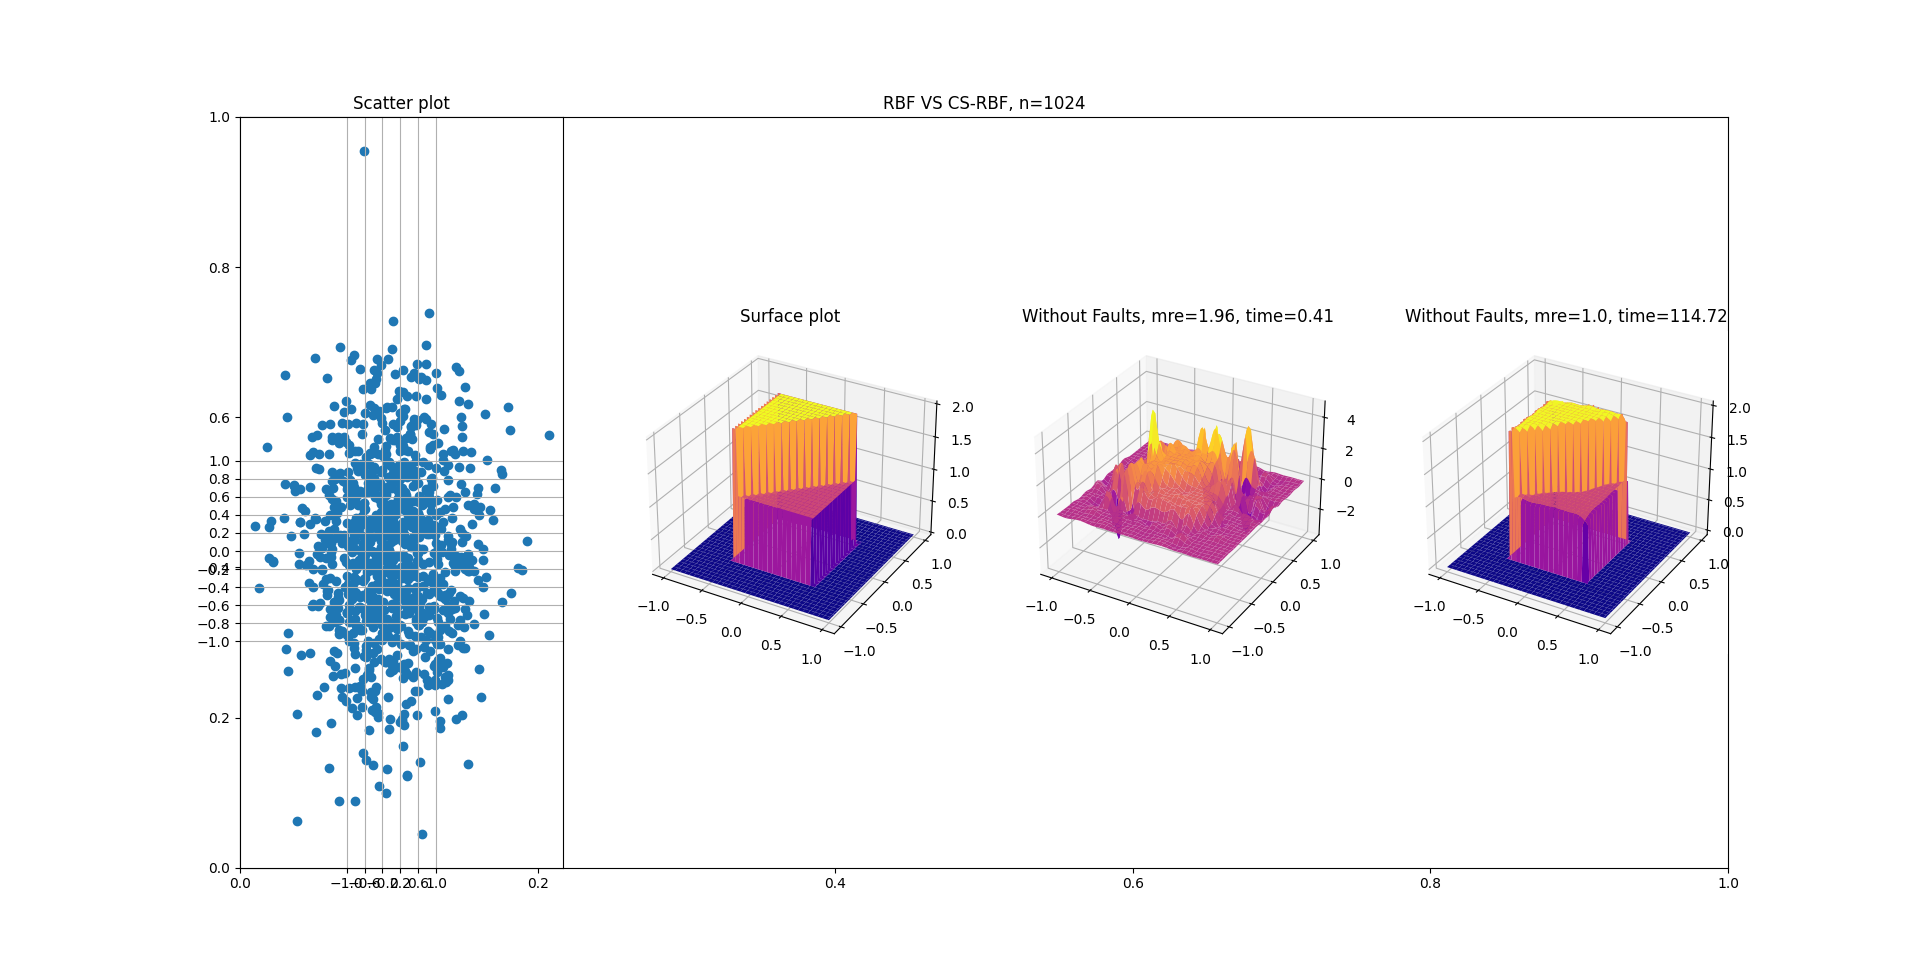
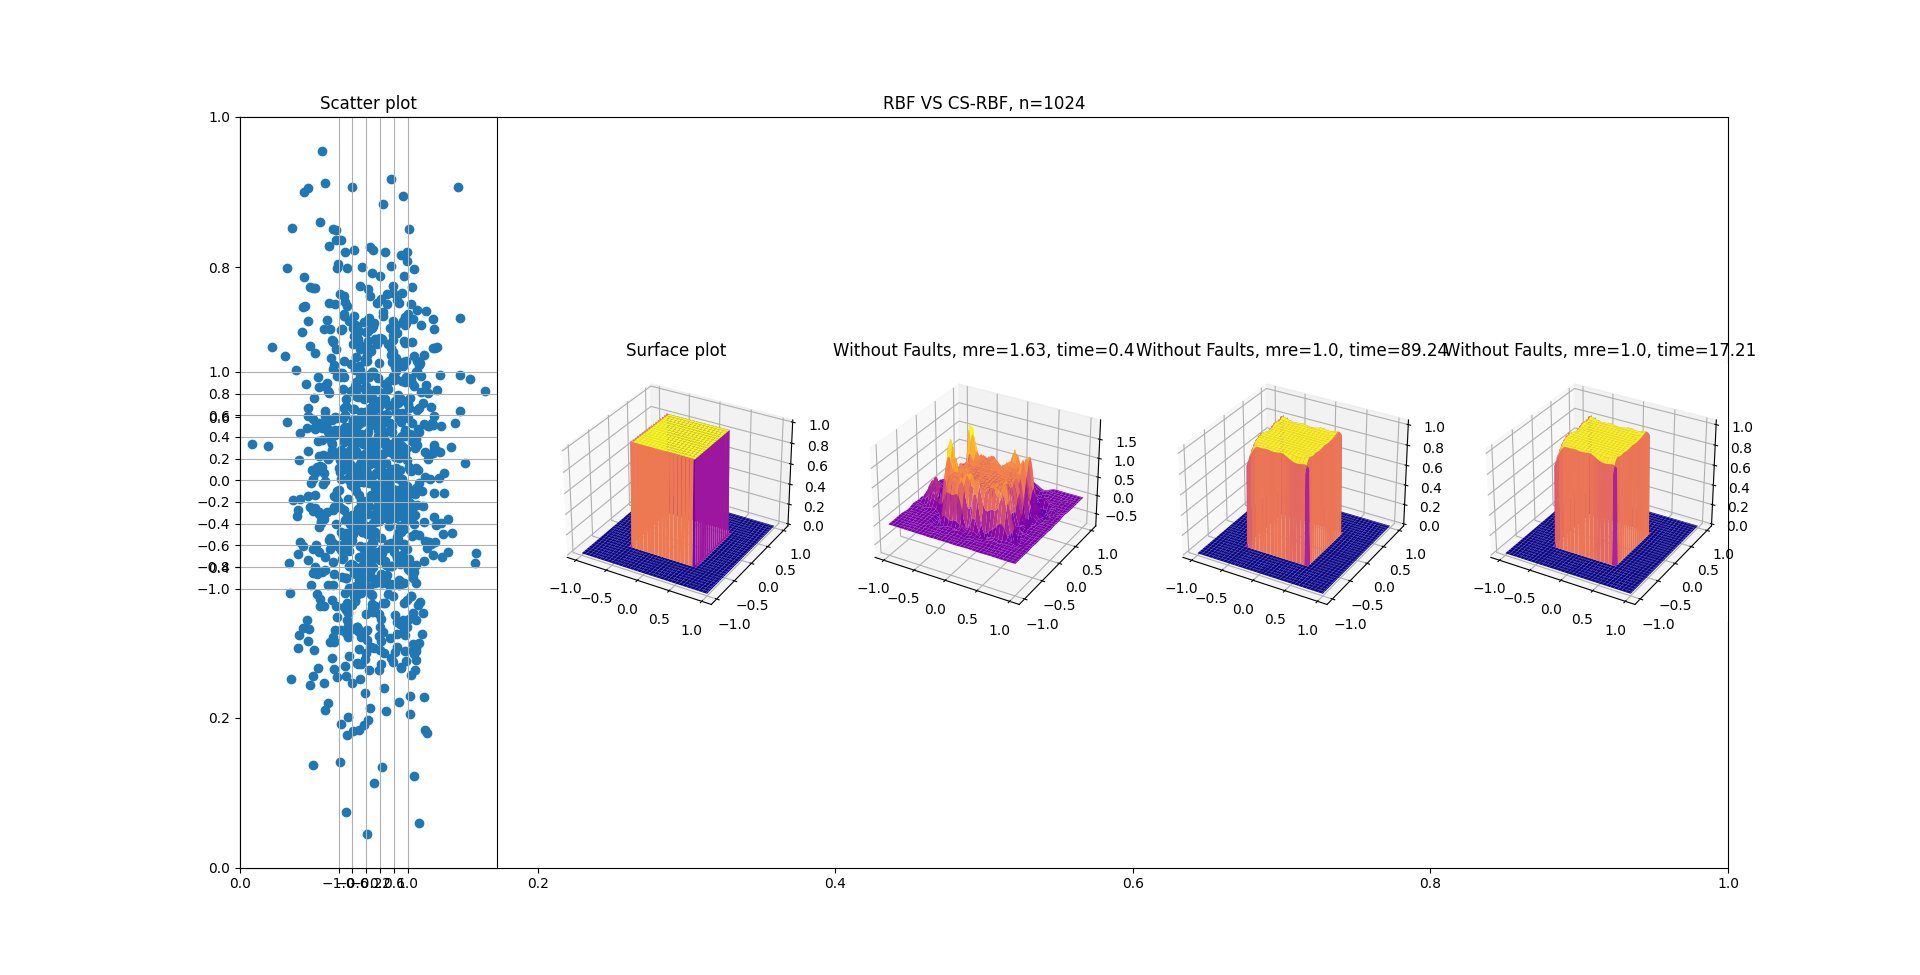
fix

diff --git a/cs_rbf_with_faults.py b/cs_rbf_with_faults.py
@@ -233,6 +233,39 @@ def faults_exclude_point_from_found(
   return res
 
 class CsRbfWithFaults:
+  def check_faults(
+    points: np.ndarray[Any, np.dtype[np.float64]],
+    faults: list[tuple[tuple[float, float], tuple[float, float]]],
+    epsilon: float = 1e-4,
+    rs: float = 0.8
+  ):
+    n = len(points)
+
+    rf = 2 * rs / math.sqrt(3)
+
+    tree = KDTree(points[:, :2], copy_data=True)
+    
+    res = []
+
+    for p in points:
+      found = tree.query_ball_point(p[:2], rs)
+
+      res.append(set(found))
+
+    faults_exclude_points(faults, tree, rf, points, res, rs, rs * epsilon)
+
+    fb = []
+    db = {}
+
+    for i in range(0, n):
+      p = points[i]
+
+      if len(res[i]) > 1:
+        db[i] = len(fb)
+        fb.append(p[2])
+
+    return tree, res, db, fb    
+
   def interpolator(
     points: np.ndarray[Any, np.dtype[np.float64]],
     faults: list[tuple[tuple[float, float], tuple[float, float]]],
@@ -242,75 +275,45 @@ class CsRbfWithFaults:
   ):
     n = len(points)
 
-    rf = 2 * rs / math.sqrt(3)
+    tree, res, db, fb = CsRbfWithFaults.check_faults(points, faults, epsilon, rs)
 
-    tree = KDTree(points[:, :2], copy_data=True)
+    m = len(fb)
 
-    res = []
+    f = np.zeros(m)
 
-    for p in points:
-      found = tree.query_ball_point(p[:2], rs)
-
-      res.append(set(found))
-
-    faults_exclude_points(faults, tree, rf, points, res, rs, rs * epsilon)
-
-    max_count = 0
-    min_count = n
-    new_points = []
-
-    n = len(points)
-
-    for i in range(0, n):
-      s = res[i]
-
-      if len(s) > 1:
-        min_count = min(min_count, len(s))
-        max_count = max(max_count, len(s))
-        new_points.append(points[i])
-
-    points = np.array(new_points)
-
-    tree = KDTree(points[:, :2], copy_data=True)
-
-    res = []
-    fb = []
-
-    n = len(points)
-
-    for p in points:
-      fb.append(p[2])
-
-      found = tree.query_ball_point(p[:2], rs)
-
-      res.append(set(found))
-
-    faults_exclude_points(faults, tree, rf, points, res, rs, rs * epsilon)
-    
-    def mv(v):
-      f = np.zeros(n)
+    def mv(v):      
+      for k in range(m):
+        f[k] = 0
+      
+      k = 0
 
       for i in range(n):
-        for j in res[i]:
-          a = rbf(
-            distance(points[i], points[j]),
-            rs
-          )
+        if len(res[i]) > 1:
+          for j in res[i]:
+            a = rbf(
+              distance(points[i], points[j]),
+              rs
+            )
 
-          f[i] += a * v[j]
+            f[k] += a * v[db[j]]
+
+          k += 1
 
       return f
 
-    A = LinearOperator((n, n), matvec=mv)    
+    A = LinearOperator((m, m), matvec=mv)    
 
     b = cg(A, fb)
 
     return CsRbfWithFaults(
       rs, 
       epsilon,
-      b[0],
       points,
       faults,
+      b[0],
+      db,
+      res,
+      tree,
       rbf
     )
 
@@ -329,18 +332,22 @@ class CsRbfWithFaults:
         found = faults_exclude_point_from_found((x[i, j], y[i, j]), found, self.points, self.faults, self.rs * self.epsilon)  
 
         for k in found:
+          l = self.db[k]
           p = self.points[k]
-          z[i, j] += self.b[k] * self.rbf(distance((x[i, j], y[i, j]), p), self.rs)
+          z[i, j] += self.b[l] * self.rbf(distance((x[i, j], y[i, j]), p), self.rs)
 
     return z
 
   def __init__(
     self,
     rs: float,
-    epsilon: float,
-    b: np.ndarray[Any, np.float64],
+    epsilon: float,    
     points: np.ndarray[Any, np.dtype[np.float64]],    
     faults: list[tuple[tuple[float, float], tuple[float, float]]],
+    b: np.ndarray[Any, np.float64],
+    db: dict,
+    res: list[set],
+    tree: KDTree,
     rbf: Callable[[float, float], float] = basis
   ):
     self.rs = rs
@@ -348,10 +355,12 @@ class CsRbfWithFaults:
 
     self.rbf = rbf
 
-    self.b = b
     self.points = points
     self.faults = faults
 
-    self.tree = KDTree(points[:, :2], copy_data=True)
+    self.b = b
+    self.db = db
+    self.res = res
+    self.tree = tree
 
     return 

diff --git a/main.py b/main.py
@@ -7,9 +7,10 @@ import matplotlib.pyplot as plt
 from scipy.interpolate._rbf import Rbf
 from cs_rbf_with_faults import CsRbfWithFaults
 
-from examples.example_1 import target, faults
+# from examples.example_1 import target, faults
+from examples.example_2 import target, faults
 
-# Сетка для рассчета значении интерполяционной функции в узлах сетки
+# Сетка для расчета значении интерполяционной функции в узлах сетки
 x = np.linspace(-1, 1, 101)
 y = np.linspace(-1, 1, 101)
 
@@ -116,12 +117,22 @@ print('rbf start: ', start)
 # faults - список линии разломов, формата [((x1, y1), (x2, y2)), ...], где
 #   x1, y1 - координаты первой точки линии
 #   x2, y2 - координаты второй точки линии
+tree, res, db, fb = CsRbfWithFaults.check_faults(
+  points, 
+  faults, 
+  epsilon, 
+  rs
+)
+
 interpolator = CsRbfWithFaults(
-  interpolator.rs,
-  interpolator.epsilon,
+  rs,
+  epsilon,  
+  points,
+  faults,
   interpolator.b,
-  interpolator.points,
-  interpolator.faults
+  db,
+  res,
+  tree
 )
 
 z_cs_rbf = interpolator(x, y)

diff --git a/examples/example_2.py b/examples/example_2.py
@@ -1,6 +1,9 @@
 def target(x, y):  
   if x >= -0.5 and x <= 0.5 and y >= -0.5 and y <= 0.5:
-    return 1
+    if y >= x:
+      return 2
+    else:
+      return 1
 
   return 0
 
@@ -9,6 +12,9 @@ faults = [(
   (-0.5, 0.5)
 ), (
   (-0.5, 0.5),
+  (0.5, 0.5)
+), (
+  (-0.5, -0.5),
   (0.5, 0.5)
 ), (
   (-0.5, -0.5),
